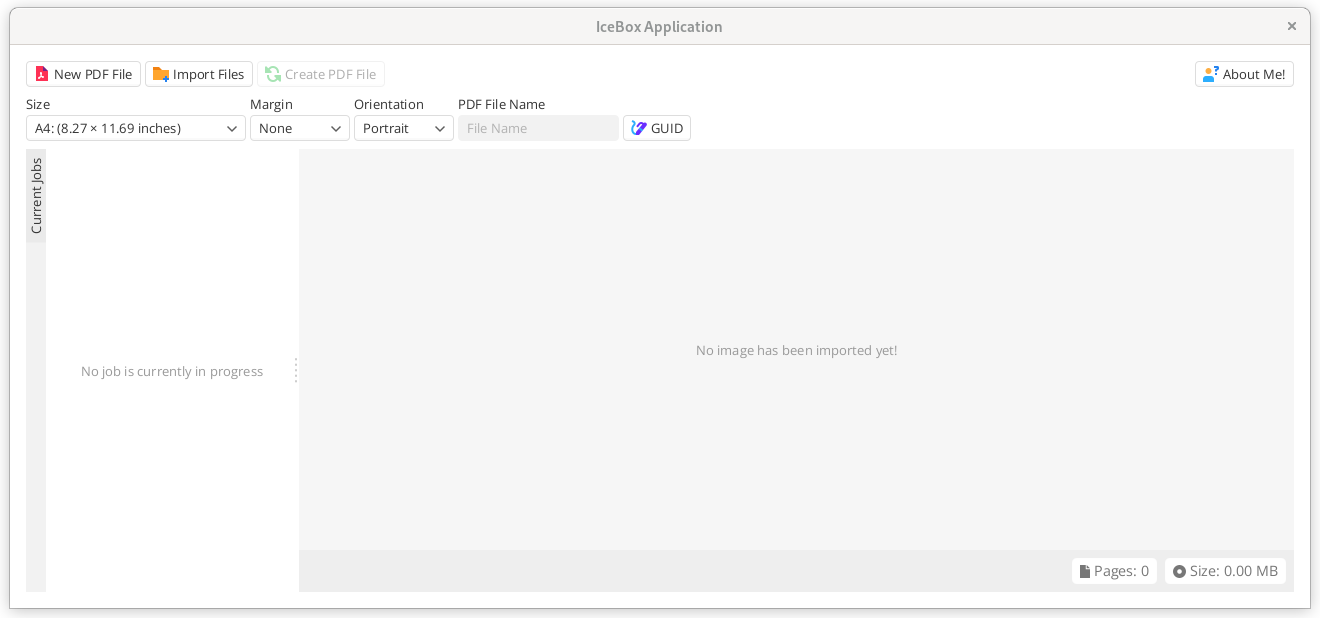
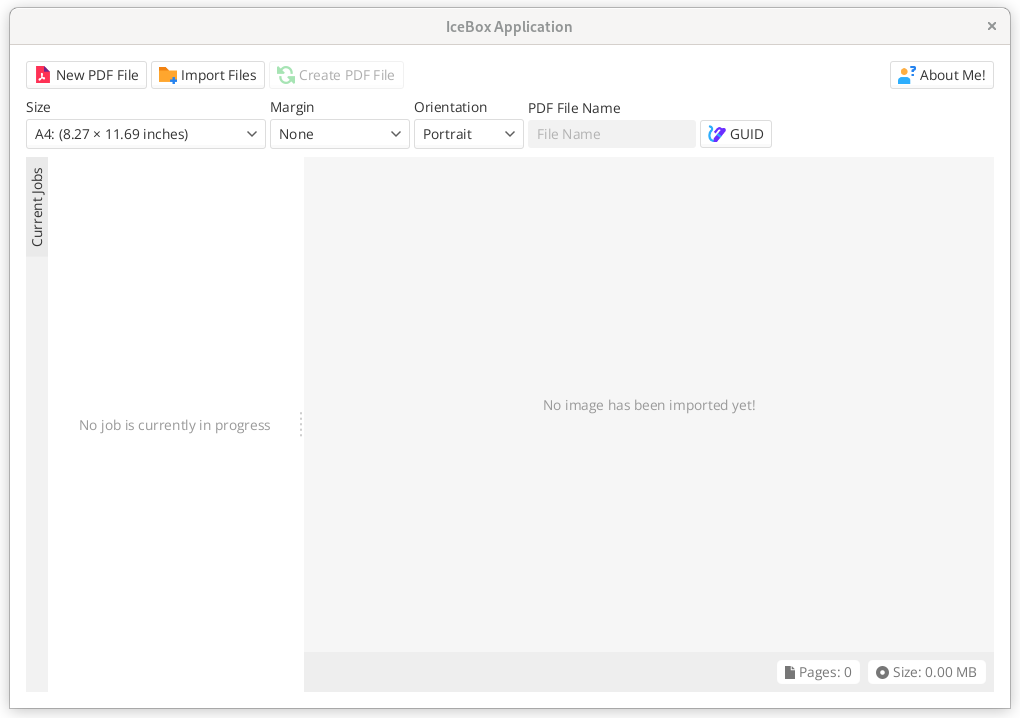
Improvements have been made to the project.

diff --git a/src/main/resources/io/github/pleromix/icebox/css/app.css b/src/main/resources/io/github/pleromix/icebox/css/app.css
@@ -37,7 +37,7 @@
     -fx-background-color: #f2f2f2, #f2f2f2;
     -fx-background-insets: 0, 1;
     -fx-background-radius: 3, 2;
-    -fx-padding: 0.3em 0.6em;
+    -fx-padding: 0.35em 0.6em;
 }
 
 .text-field:focused {
@@ -49,7 +49,7 @@
     -fx-background-color: #ddd, linear-gradient(to bottom, #fff 90%, #fafafa 90%);
     -fx-background-insets: 0, 1;
     -fx-background-radius: 3, 2;
-    -fx-padding: 0.3em 0.6em;
+    -fx-padding: 0.35em 0.6em;
     -fx-cursor: hand;
 }
 

diff --git a/src/main/java/io/github/pleromix/icebox/controller/AppController.java b/src/main/java/io/github/pleromix/icebox/controller/AppController.java
@@ -246,6 +246,12 @@ public class AppController implements Initializable {
                 super.failed();
                 getException().printStackTrace();
             }
+
+            @Override
+            protected void cancelled() {
+                super.cancelled();
+                disableTopControls(false);
+            }
         };
 
         if (Objects.nonNull(file)) {
